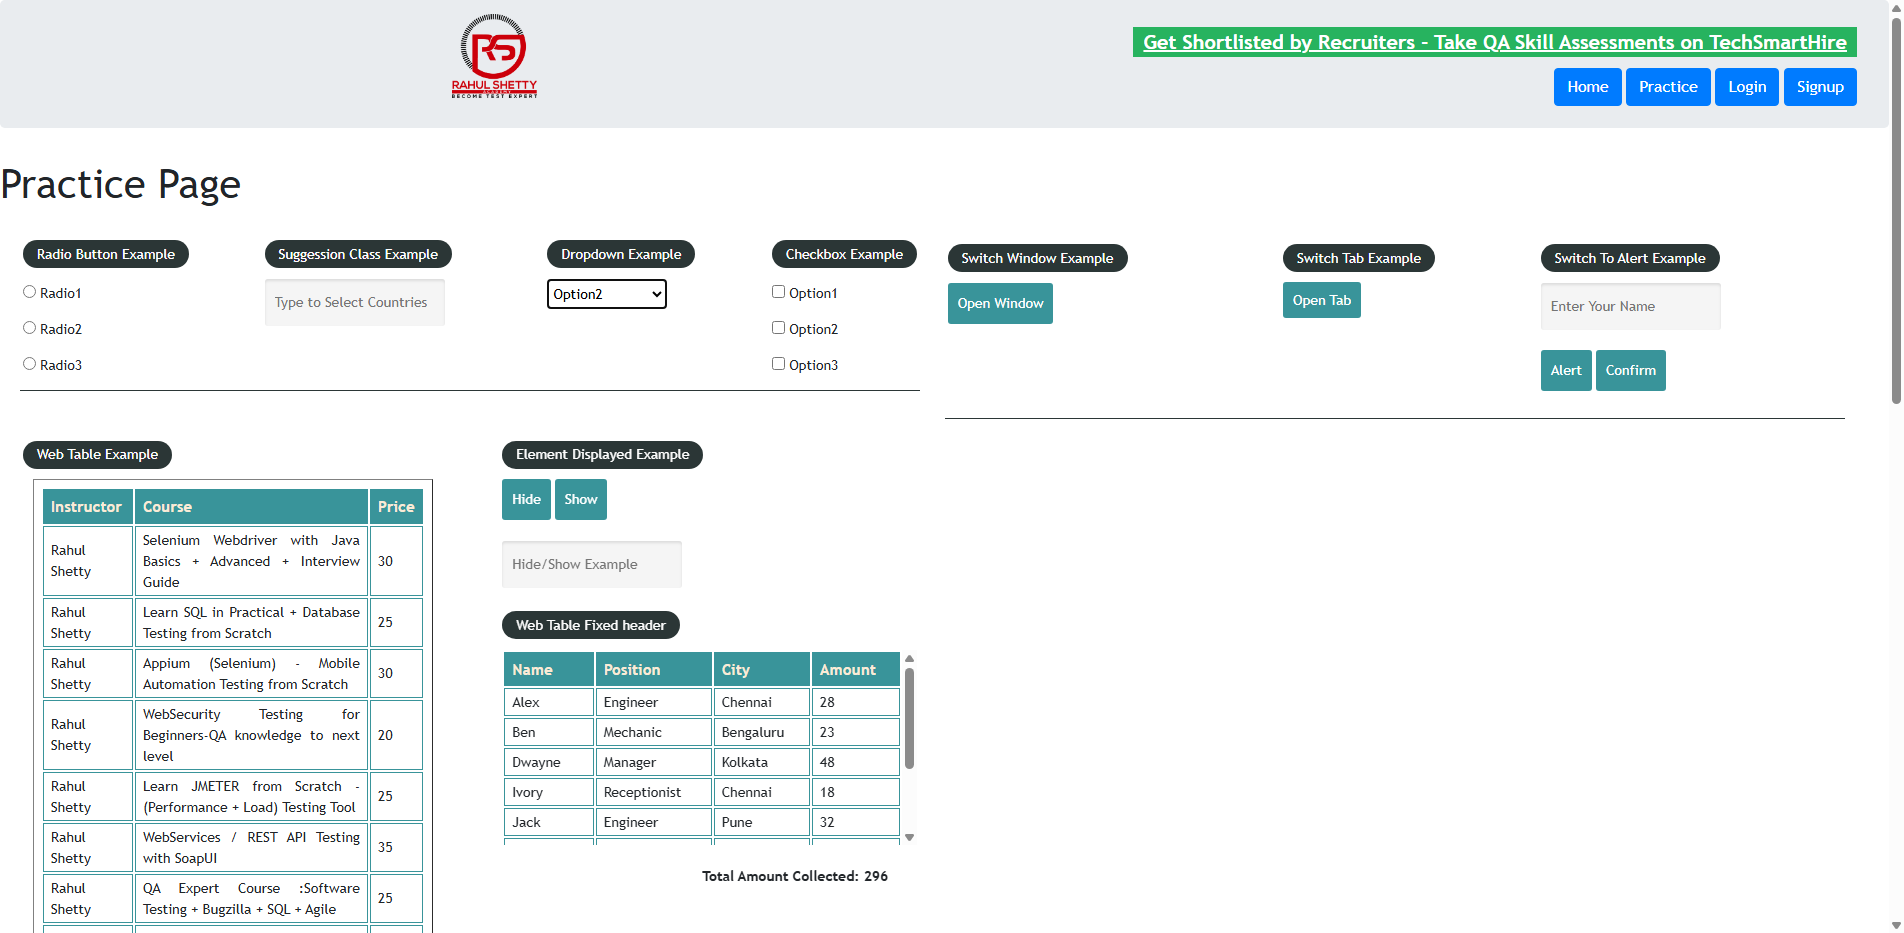
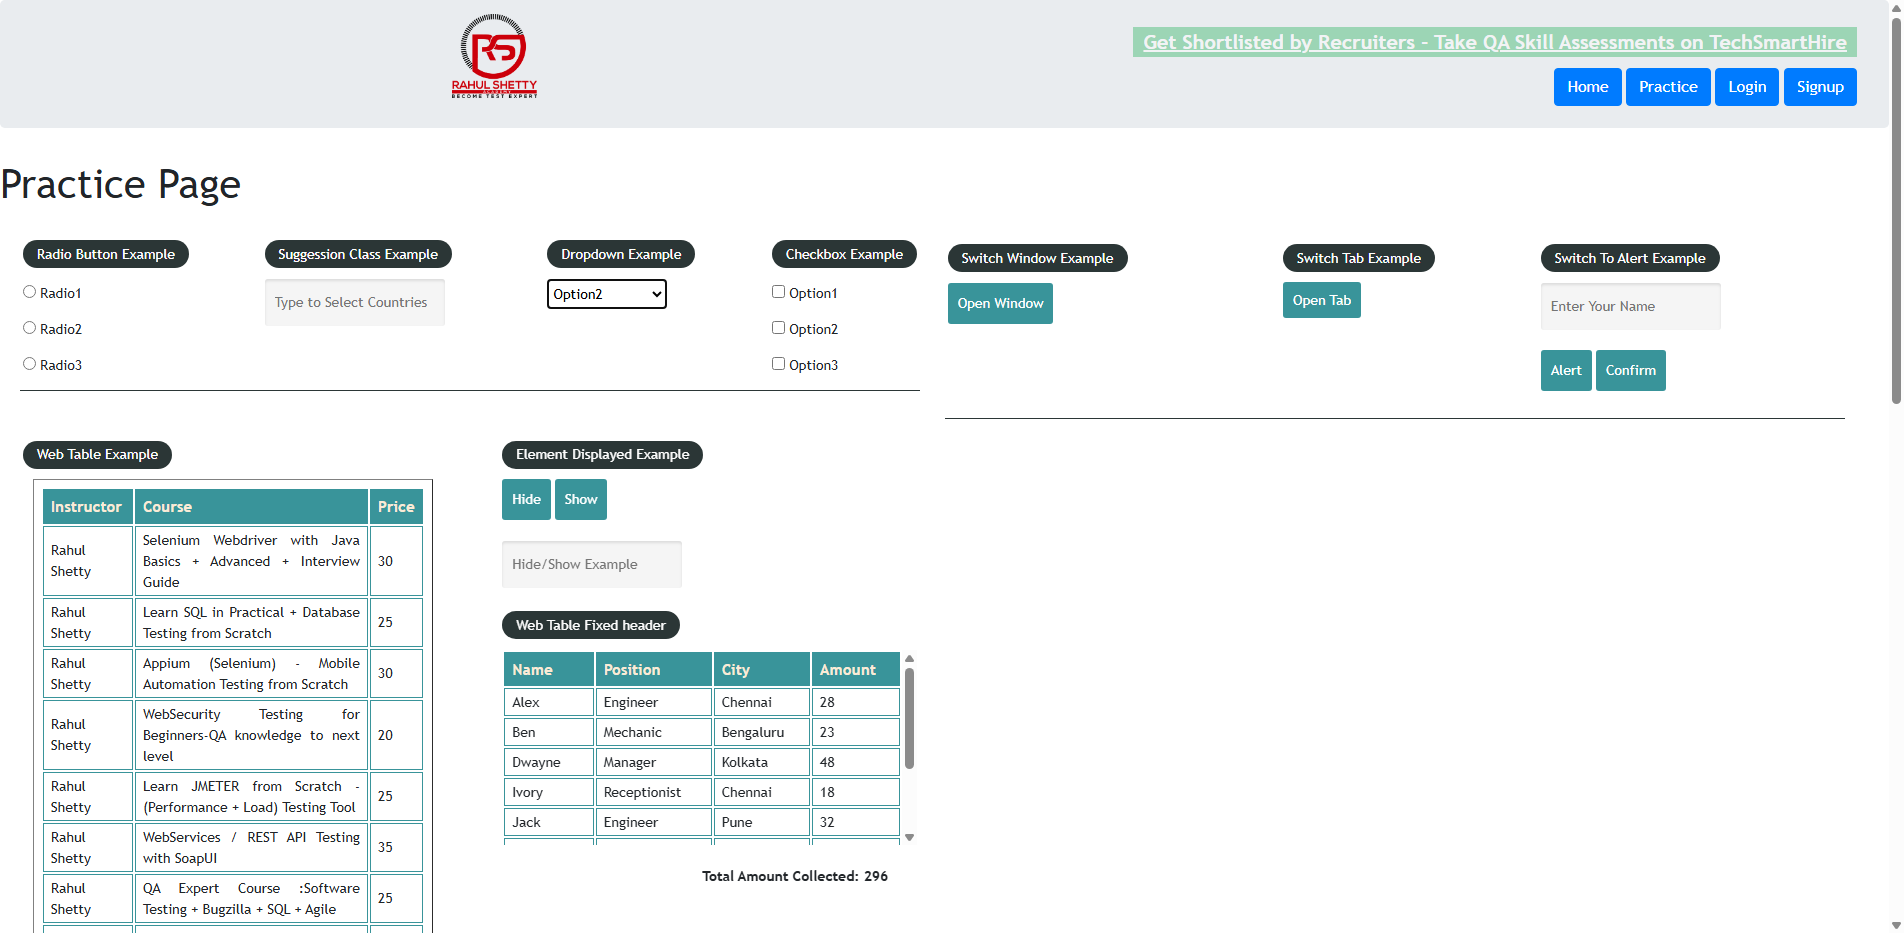
link text

Changed region(s): [[0.5888, 0.0311, 0.9916, 0.0622]]

diff --git a/test_clickLinkText.py b/test_clickLinkText.py
@@ -1,10 +1,3 @@
-# Think and act like you are a senior software tester. Write a script to automate. Additionally, I require an HTML report, cross-browser testing, screenshots, and a test report for all browsers on GitHub, including all logs of this website, using the PyCharm framework with Selenium and Python. Also, generate a .yml file script to push files to GitHub accordingly.
-# 1. Open this website- https://rahulshettyacademy.com/AutomationPractice/
-# 2. Maximise the window
-# 3. Select dropdown > option2
-
-
-
 import os
 import time
 import logging
@@ -17,7 +10,7 @@ from selenium.webdriver.chrome.options import Options as ChromeOptions
 from selenium.webdriver.firefox.options import Options as FirefoxOptions
 
 # ─────────────────────────────────────────────────────────────────────────────
-# Logging setup
+# Logging setup — captured in console + HTML report
 # ─────────────────────────────────────────────────────────────────────────────
 logging.basicConfig(
     level=logging.INFO,
@@ -29,8 +22,8 @@ log = logging.getLogger(__name__)
 
 # ─────────────────────────────────────────────────────────────────────────────
 # Browser factory
-# NOTE: maximize_window() is intentionally REMOVED — it causes a ReadTimeout
-# on Edge/Firefox headless in Linux CI. Window size is set via launch args.
+# Window size set via launch args (1920x1080) — maximize_window() skipped
+# because it causes ReadTimeoutError in headless Linux CI environments
 # ─────────────────────────────────────────────────────────────────────────────
 def get_driver(browser_name: str):
     browser_name = browser_name.lower()
@@ -43,7 +36,7 @@ def get_driver(browser_name: str):
         opts.add_argument("--height=1080")
         driver = webdriver.Firefox(options=opts)
 
-    else:  # chrome (default)
+    else:  # chrome default
         opts = ChromeOptions()
         opts.add_argument("--headless=new")
         opts.add_argument("--window-size=1920,1080")
@@ -54,13 +47,11 @@ def get_driver(browser_name: str):
         opts.add_argument("--remote-debugging-port=9222")
         driver = webdriver.Chrome(options=opts)
 
-    # DO NOT call driver.maximize_window() here —
-    # it sends a WebDriver command that times out in headless CI on Linux
     return driver
 
 
 # ─────────────────────────────────────────────────────────────────────────────
-# Driver fixture
+# Pytest fixture — driver setup + teardown + failure screenshot
 # ─────────────────────────────────────────────────────────────────────────────
 @pytest.fixture()
 def driver(request, browser):
@@ -71,13 +62,13 @@ def driver(request, browser):
         os.makedirs("screenshots", exist_ok=True)
         path = f"screenshots/failure_{browser}_{request.node.name}.png"
         drv.save_screenshot(path)
-        log.error(f"FAILED screenshot saved: {path}")
+        log.error(f"FAILED — screenshot saved: {path}")
 
     drv.quit()
     log.info(f"Browser closed: {browser}")
 
 
-# Hook to expose rep_call to fixture
+# Hook — exposes rep_call to fixture for failure detection
 @pytest.hookimpl(tryfirst=True, hookwrapper=True)
 def pytest_runtest_makereport(item, call):
     outcome = yield
@@ -86,7 +77,7 @@ def pytest_runtest_makereport(item, call):
 
 
 # ─────────────────────────────────────────────────────────────────────────────
-# Validation helper
+# Validation helper — senior QA assertion wrapper
 # ─────────────────────────────────────────────────────────────────────────────
 def validate(condition: bool, pass_msg: str, fail_msg: str):
     if condition:
@@ -99,22 +90,27 @@ def validate(condition: bool, pass_msg: str, fail_msg: str):
 
 
 # ─────────────────────────────────────────────────────────────────────────────
-# TEST — runs on chrome + firefox via conftest.py parametrize
+# TEST
 # ─────────────────────────────────────────────────────────────────────────────
-def test_select_dropdown_option2(driver, browser):
+def test_link_and_dropdown(driver, browser):
     """
     Senior QA Test — Automation Practice Site
-    Browsers: Chrome, Firefox (Edge excluded — not available on ubuntu-latest CI)
+    Browsers : Chrome, Firefox (parametrized via conftest.py)
     Steps:
       1. Open website
-      2. Maximise window (set via launch args, 1920x1080)
-      3. Select dropdown > Option2
+      2. Maximise window (1920x1080 via launch args)
+      3. Click 'Get Shortlisted...' link → new tab opens
+      4. Verify new tab opened → switch BACK to main tab
+      5. Select dropdown > Option2
     Validations:
       V1 — Page title is correct
-      V2 — Dropdown is present and enabled
-      V3 — Option2 exists in the dropdown options list
-      V4 — After selection, selected value equals 'Option2'
-      V5 — DOM value attribute confirms selection
+      V2 — 'Get Shortlisted' link is visible and clickable
+      V3 — New tab was opened after clicking the link
+      V4 — Successfully switched back to the original main tab
+      V5 — Dropdown is visible and enabled
+      V6 — Option2 exists in dropdown options list
+      V7 — Selected text matches 'Option2'
+      V8 — DOM value attribute is set correctly
     """
     wait = WebDriverWait(driver, 15)
     os.makedirs("screenshots", exist_ok=True)
@@ -141,46 +137,120 @@ def test_select_dropdown_option2(driver, browser):
         )
 
         # ─────────────────────────────────────────────────
-        # STEP 2: Window size confirmation (already set via args)
+        # STEP 2: Maximise window
         # ─────────────────────────────────────────────────
-        log.info(f"[{browser.upper()}] [STEP 2] Window set to 1920x1080 via launch arguments.")
+        log.info(f"[{browser.upper()}] [STEP 2] Window maximised at 1920x1080 via launch args.")
         driver.save_screenshot(f"screenshots/step2_maximised_{browser}.png")
 
         # ─────────────────────────────────────────────────
-        # STEP 3: Locate dropdown
+        # STEP 3: Click "Get Shortlisted..." link (top right)
         # ─────────────────────────────────────────────────
-        log.info(f"[{browser.upper()}] [STEP 3] Locating dropdown...")
+        log.info(f"[{browser.upper()}] [STEP 3] Locating 'Get Shortlisted...' link...")
+
+        # The link text may be truncated — use partial link text for resilience
+        get_shortlisted_link = wait.until(
+            EC.element_to_be_clickable(
+                (By.PARTIAL_LINK_TEXT, "Get Shortlisted")
+            )
+        )
+        link_text = get_shortlisted_link.text
+        link_href = get_shortlisted_link.get_attribute("href")
+        log.info(f"[{browser.upper()}]          Link text: '{link_text}'")
+        log.info(f"[{browser.upper()}]          Link href: '{link_href}'")
+        driver.save_screenshot(f"screenshots/step3_before_click_{browser}.png")
+
+        # V2 — Link is visible and clickable
+        validate(
+            get_shortlisted_link.is_displayed() and get_shortlisted_link.is_enabled(),
+            f"[{browser.upper()}] 'Get Shortlisted' link is visible and clickable",
+            f"[{browser.upper()}] 'Get Shortlisted' link is NOT visible or not enabled"
+        )
+
+        # Record existing tabs before click
+        tabs_before = driver.window_handles
+        main_tab    = driver.current_window_handle
+        log.info(f"[{browser.upper()}]          Tabs before click: {len(tabs_before)}")
+
+        # Click the link
+        get_shortlisted_link.click()
+        log.info(f"[{browser.upper()}]          Clicked 'Get Shortlisted...' link.")
+        time.sleep(2)  # allow new tab to open
+
+        # ─────────────────────────────────────────────────
+        # STEP 4: Verify new tab opened → switch back to main tab
+        # ─────────────────────────────────────────────────
+        log.info(f"[{browser.upper()}] [STEP 4] Checking for new tab and switching back...")
+
+        tabs_after = driver.window_handles
+        log.info(f"[{browser.upper()}]          Tabs after click: {len(tabs_after)}")
+
+        # V3 — New tab was opened
+        validate(
+            len(tabs_after) > len(tabs_before),
+            f"[{browser.upper()}] New tab opened successfully — total tabs: {len(tabs_after)}",
+            f"[{browser.upper()}] No new tab was opened — still {len(tabs_after)} tab(s)"
+        )
+
+        # Identify and log the new tab
+        new_tab = [t for t in tabs_after if t != main_tab][0]
+        log.info(f"[{browser.upper()}]          New tab handle: {new_tab}")
+
+        # Switch to new tab briefly to log its title
+        driver.switch_to.window(new_tab)
+        time.sleep(1)
+        new_tab_title = driver.title
+        new_tab_url   = driver.current_url
+        log.info(f"[{browser.upper()}]          New tab title  : '{new_tab_title}'")
+        log.info(f"[{browser.upper()}]          New tab URL    : '{new_tab_url}'")
+        driver.save_screenshot(f"screenshots/step4_new_tab_{browser}.png")
+
+        # Switch BACK to the main tab
+        driver.switch_to.window(main_tab)
+        time.sleep(0.5)
+        current_title = driver.title
+        log.info(f"[{browser.upper()}]          Switched back — current title: '{current_title}'")
+        driver.save_screenshot(f"screenshots/step4_back_to_main_{browser}.png")
+
+        # V4 — Successfully back on main tab
+        validate(
+            EXPECTED_TITLE_PART in current_title,
+            f"[{browser.upper()}] Switched back to main tab — title: '{current_title}'",
+            f"[{browser.upper()}] Failed to switch back — title: '{current_title}'"
+        )
+
+        print(f"\n  📌 [{browser.upper()}] New tab opened: '{new_tab_title}' | URL: {new_tab_url}")
+        print(f"  📌 [{browser.upper()}] Switched back to main tab: '{current_title}'")
+
+        # ─────────────────────────────────────────────────
+        # STEP 5: Select Dropdown > Option2
+        # ─────────────────────────────────────────────────
+        log.info(f"[{browser.upper()}] [STEP 5] Locating dropdown...")
         dropdown_element = wait.until(
             EC.presence_of_element_located((By.ID, "dropdown-class-example"))
         )
         driver.execute_script("arguments[0].scrollIntoView({block: 'center'});", dropdown_element)
         time.sleep(0.5)
 
-        # V2 — Dropdown visible and enabled
+        # V5 — Dropdown visible and enabled
         validate(
             dropdown_element.is_displayed() and dropdown_element.is_enabled(),
             f"[{browser.upper()}] Dropdown is visible and enabled",
             f"[{browser.upper()}] Dropdown is not visible or not enabled"
         )
 
-        # ─────────────────────────────────────────────────
-        # STEP 4: Inspect options
-        # ─────────────────────────────────────────────────
         select      = Select(dropdown_element)
         all_options = [opt.text for opt in select.options]
         log.info(f"[{browser.upper()}]          All options: {all_options}")
         print(f"\n  📋 [{browser.upper()}] Dropdown options found: {all_options}")
 
-        # V3 — Option2 exists in list
+        # V6 — Option2 exists
         validate(
             EXPECTED_OPTION in all_options,
             f"[{browser.upper()}] '{EXPECTED_OPTION}' is present in options {all_options}",
             f"[{browser.upper()}] '{EXPECTED_OPTION}' NOT found in options: {all_options}"
         )
 
-        # ─────────────────────────────────────────────────
-        # STEP 5: Select Option2
-        # ─────────────────────────────────────────────────
+        # Select Option2
         log.info(f"[{browser.upper()}] [STEP 5] Selecting '{EXPECTED_OPTION}'...")
         select.select_by_visible_text(EXPECTED_OPTION)
         time.sleep(0.5)
@@ -189,16 +259,16 @@ def test_select_dropdown_option2(driver, browser):
         selected_value = select.first_selected_option.get_attribute("value")
         log.info(f"[{browser.upper()}]          Selected text : '{selected_text}'")
         log.info(f"[{browser.upper()}]          Selected value: '{selected_value}'")
-        driver.save_screenshot(f"screenshots/step3_dropdown_selected_{browser}.png")
+        driver.save_screenshot(f"screenshots/step5_dropdown_selected_{browser}.png")
 
-        # V4 — Visible text matches
+        # V7 — Text matches
         validate(
             selected_text == EXPECTED_OPTION,
             f"[{browser.upper()}] Selected text '{selected_text}' matches '{EXPECTED_OPTION}'",
             f"[{browser.upper()}] Selected text '{selected_text}' does NOT match '{EXPECTED_OPTION}'"
         )
 
-        # V5 — DOM value attribute set
+        # V8 — DOM value set
         validate(
             selected_value is not None and len(selected_value) > 0,
             f"[{browser.upper()}] DOM value attribute is set: value='{selected_value}'",
@@ -208,18 +278,21 @@ def test_select_dropdown_option2(driver, browser):
         # ─────────────────────────────────────────────────
         # FINAL PRINT
         # ─────────────────────────────────────────────────
-        print(f"\n  {'='*52}")
-        print(f"  ✅ Dropdown Option2 Selected")
-        print(f"     Browser        : {browser.upper()}")
-        print(f"     Selected Text  : {selected_text}")
-        print(f"     Selected Value : {selected_value}")
-        print(f"     All Options    : {all_options}")
-        print(f"  {'='*52}\n")
+        print(f"\n  {'='*55}")
+        print(f"  ✅ ALL STEPS PASSED")
+        print(f"     Browser          : {browser.upper()}")
+        print(f"     Link Clicked     : {link_text}")
+        print(f"     New Tab Title    : {new_tab_title}")
+        print(f"     Switched Back To : {current_title}")
+        print(f"     Dropdown Selected: {selected_text} (value='{selected_value}')")
+        print(f"     All Options      : {all_options}")
+        print(f"  {'='*55}\n")
 
-        log.info("=" * 55)
-        log.info(f"  ✅ [{browser.upper()}] DROPDOWN OPTION2 SELECTED SUCCESSFULLY")
-        log.info(f"  Text: {selected_text} | Value: {selected_value}")
-        log.info("=" * 55)
+        log.info("=" * 60)
+        log.info(f"  ✅ [{browser.upper()}] ALL STEPS COMPLETED SUCCESSFULLY")
+        log.info(f"  Link: {link_text} | New tab: {new_tab_title}")
+        log.info(f"  Dropdown: {selected_text} (value='{selected_value}')")
+        log.info("=" * 60)
 
         driver.save_screenshot(f"screenshots/final_passed_{browser}.png")
 
